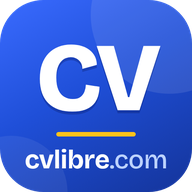
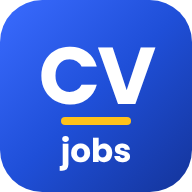
Appli Jobs CVLibre : icône CV jobs, nom Jobs CVLibre, liens hors offres ouverts dans le navigateur
Claude-Session: https://claude.ai/code/session_01C97iXcqBvxtjgHv4LhD2QB

diff --git a/assets/app.js b/assets/app.js
@@ -1,15 +1,15 @@
-/* 14 nov 2026 (Jeremy): "CVLibre Emploi" app, only for the job pages.
+/* 14 nov 2026 (Jeremy): "Jobs CVLibre" app, only for the job pages.
    Outside the app: a discreet install card. No notifications for now (Notifpush sends ads, not jobs). */
 (function () {
   var lg = (document.documentElement.lang || "fr").slice(0, 2);
   var T = {
-    fr: { t: "<strong>Appli CVLibre Emploi</strong> : les offres en un clic depuis votre écran d'accueil.", b: "Installer", x: "Fermer",
+    fr: { t: "<strong>Appli Jobs CVLibre</strong> : les offres en un clic depuis votre écran d'accueil.", b: "Installer", x: "Fermer",
       ios: "Sur iPhone : appuyez sur <strong>Partager</strong> <span aria-hidden=\"true\">⬆</span> en bas de l'écran, puis <strong>Sur l'écran d'accueil</strong>.",
       and: "Ouvrez le menu <strong>⋮</strong> du navigateur, puis <strong>Ajouter à l'écran d'accueil</strong> (ou <strong>Installer l'appli</strong>)." },
-    en: { t: "<strong>CVLibre Jobs app</strong>: jobs one tap from your home screen.", b: "Install", x: "Close",
+    en: { t: "<strong>Jobs CVLibre app</strong>: jobs one tap from your home screen.", b: "Install", x: "Close",
       ios: "On iPhone: tap <strong>Share</strong> <span aria-hidden=\"true\">⬆</span> at the bottom of the screen, then <strong>Add to Home Screen</strong>.",
       and: "Open the browser menu <strong>⋮</strong>, then <strong>Add to Home screen</strong> (or <strong>Install app</strong>)." },
-    de: { t: "<strong>App CVLibre Jobs</strong>: Stellenangebote mit einem Tippen vom Startbildschirm.", b: "Installieren", x: "Schließen",
+    de: { t: "<strong>App Jobs CVLibre</strong>: Stellenangebote mit einem Tippen vom Startbildschirm.", b: "Installieren", x: "Schließen",
       ios: "Auf dem iPhone: Tippen Sie unten auf <strong>Teilen</strong> <span aria-hidden=\"true\">⬆</span>, dann auf <strong>Zum Home-Bildschirm</strong>.",
       and: "Öffnen Sie das Browsermenü <strong>⋮</strong>, dann <strong>Zum Startbildschirm hinzufügen</strong> (oder <strong>App installieren</strong>)." }
   }[lg] || null;
@@ -28,7 +28,19 @@
     ".cvapp-h{margin:-8px 0 16px;padding:10px 14px;border-radius:10px;background:#fff8e6;font-size:.92rem}";
   document.head.appendChild(st);
 
-  if (standalone) { track("app_open"); return; }
+  if (standalone) {
+    track("app_open");
+    // only the job pages live in the app: every other link opens in the normal browser
+    var scope = location.pathname.replace(/[^/]*$/, "");
+    var fix = function (a) {
+      try {
+        var u = new URL(a.getAttribute("href"), location.href);
+        if (u.origin !== location.origin || u.pathname.indexOf(scope) !== 0) { a.target = "_blank"; a.rel = "noopener"; }
+      } catch (e) {}
+    };
+    document.addEventListener("click", function (e) { var a = e.target.closest && e.target.closest("a[href]"); if (a) fix(a); }, true);
+    return;
+  }
 
   if (!mobile) return;
   try { if (localStorage.getItem("cvl_app_x")) return; } catch (e) {}

diff --git a/au/jobs/index.html b/au/jobs/index.html
@@ -30,7 +30,7 @@
 <link rel="stylesheet" href="/assets/style.css?v=20261113z">
 <link rel="stylesheet" href="/assets/cv.css?v=20261113b">
 <link rel="icon" href="/assets/favicon.svg" type="image/svg+xml">
-<link rel="apple-touch-icon" href="/assets/apple-touch-icon.png">
+<link rel="apple-touch-icon" href="/assets/app-touch-180.png">
 <link rel="preload" href="/assets/fonts/source-sans-3-latin-wght-normal.woff2" as="font" type="font/woff2" crossorigin>
 <link rel="stylesheet" href="/assets/letter.css?v=20261113b">
 <link rel="stylesheet" href="/assets/offres.css?v=20261113c">
@@ -38,7 +38,7 @@
 <link rel="manifest" href="/au/jobs/manifest.webmanifest">
 <meta name="mobile-web-app-capable" content="yes">
 <meta name="apple-mobile-web-app-capable" content="yes">
-<meta name="apple-mobile-web-app-title" content="CVLibre Jobs">
+<meta name="apple-mobile-web-app-title" content="Jobs CVLibre">
 <meta name="apple-mobile-web-app-status-bar-style" content="default">
 </head>
 <body>
@@ -106,7 +106,7 @@
 <script src="/assets/au/support.js?v=20261113z" defer></script>
 <script src="/assets/stats.js?v=20261113b" defer></script>
 <script src="/assets/au/offres.js?v=20261113z"></script>
-<script src="/assets/app.js?v=20261114b" defer></script>
+<script src="/assets/app.js?v=20261114c" defer></script>
 <script src="/assets/push.js?v=20261114c" defer></script>
 </body>
 </html>

diff --git a/ca/jobs/index.html b/ca/jobs/index.html
@@ -30,7 +30,7 @@
 <link rel="stylesheet" href="/assets/style.css?v=20261113z">
 <link rel="stylesheet" href="/assets/cv.css?v=20261113b">
 <link rel="icon" href="/assets/favicon.svg" type="image/svg+xml">
-<link rel="apple-touch-icon" href="/assets/apple-touch-icon.png">
+<link rel="apple-touch-icon" href="/assets/app-touch-180.png">
 <link rel="preload" href="/assets/fonts/source-sans-3-latin-wght-normal.woff2" as="font" type="font/woff2" crossorigin>
 <link rel="stylesheet" href="/assets/letter.css?v=20261113b">
 <link rel="stylesheet" href="/assets/offres.css?v=20261113c">
@@ -38,7 +38,7 @@
 <link rel="manifest" href="/ca/jobs/manifest.webmanifest">
 <meta name="mobile-web-app-capable" content="yes">
 <meta name="apple-mobile-web-app-capable" content="yes">
-<meta name="apple-mobile-web-app-title" content="CVLibre Jobs">
+<meta name="apple-mobile-web-app-title" content="Jobs CVLibre">
 <meta name="apple-mobile-web-app-status-bar-style" content="default">
 </head>
 <body>
@@ -106,7 +106,7 @@
 <script src="/assets/ca/support.js?v=20261113z" defer></script>
 <script src="/assets/stats.js?v=20261113b" defer></script>
 <script src="/assets/ca/offres.js?v=20261113z"></script>
-<script src="/assets/app.js?v=20261114b" defer></script>
+<script src="/assets/app.js?v=20261114c" defer></script>
 <script src="/assets/push.js?v=20261114c" defer></script>
 </body>
 </html>

diff --git a/de/jobs/index.html b/de/jobs/index.html
@@ -30,7 +30,7 @@
 <link rel="stylesheet" href="/assets/style.css?v=20261113z">
 <link rel="stylesheet" href="/assets/cv.css?v=20261113b">
 <link rel="icon" href="/assets/favicon.svg" type="image/svg+xml">
-<link rel="apple-touch-icon" href="/assets/apple-touch-icon.png">
+<link rel="apple-touch-icon" href="/assets/app-touch-180.png">
 <link rel="preload" href="/assets/fonts/source-sans-3-latin-wght-normal.woff2" as="font" type="font/woff2" crossorigin>
 <link rel="stylesheet" href="/assets/letter.css?v=20261113b">
 <link rel="stylesheet" href="/assets/offres.css?v=20261113c">
@@ -38,7 +38,7 @@
 <link rel="manifest" href="/de/jobs/manifest.webmanifest">
 <meta name="mobile-web-app-capable" content="yes">
 <meta name="apple-mobile-web-app-capable" content="yes">
-<meta name="apple-mobile-web-app-title" content="CVLibre Jobs">
+<meta name="apple-mobile-web-app-title" content="Jobs CVLibre">
 <meta name="apple-mobile-web-app-status-bar-style" content="default">
 </head>
 <body>
@@ -104,7 +104,7 @@
 <script src="/assets/de/support.js?v=20261113z" defer></script>
 <script src="/assets/stats.js?v=20261113b" defer></script>
 <script src="/assets/de/offres.js?v=20261113z"></script>
-<script src="/assets/app.js?v=20261114b" defer></script>
+<script src="/assets/app.js?v=20261114c" defer></script>
 <script src="/assets/push.js?v=20261114c" defer></script>
 </body>
 </html>

diff --git a/en/jobs/index.html b/en/jobs/index.html
@@ -30,7 +30,7 @@
 <link rel="stylesheet" href="/assets/style.css?v=20261113z">
 <link rel="stylesheet" href="/assets/cv.css?v=20261113b">
 <link rel="icon" href="/assets/favicon.svg" type="image/svg+xml">
-<link rel="apple-touch-icon" href="/assets/apple-touch-icon.png">
+<link rel="apple-touch-icon" href="/assets/app-touch-180.png">
 <link rel="preload" href="/assets/fonts/source-sans-3-latin-wght-normal.woff2" as="font" type="font/woff2" crossorigin>
 <link rel="stylesheet" href="/assets/letter.css?v=20261113b">
 <link rel="stylesheet" href="/assets/offres.css?v=20261113c">
@@ -38,7 +38,7 @@
 <link rel="manifest" href="/en/jobs/manifest.webmanifest">
 <meta name="mobile-web-app-capable" content="yes">
 <meta name="apple-mobile-web-app-capable" content="yes">
-<meta name="apple-mobile-web-app-title" content="CVLibre Jobs">
+<meta name="apple-mobile-web-app-title" content="Jobs CVLibre">
 <meta name="apple-mobile-web-app-status-bar-style" content="default">
 </head>
 <body>
@@ -105,7 +105,7 @@
 <script src="/assets/en/support.js?v=20261113z" defer></script>
 <script src="/assets/stats.js?v=20261113b" defer></script>
 <script src="/assets/en/offres.js?v=20261113z"></script>
-<script src="/assets/app.js?v=20261114b" defer></script>
+<script src="/assets/app.js?v=20261114c" defer></script>
 <script src="/assets/push.js?v=20261114c" defer></script>
 </body>
 </html>

diff --git a/nz/jobs/index.html b/nz/jobs/index.html
@@ -30,7 +30,7 @@
 <link rel="stylesheet" href="/assets/style.css?v=20261113z">
 <link rel="stylesheet" href="/assets/cv.css?v=20261113b">
 <link rel="icon" href="/assets/favicon.svg" type="image/svg+xml">
-<link rel="apple-touch-icon" href="/assets/apple-touch-icon.png">
+<link rel="apple-touch-icon" href="/assets/app-touch-180.png">
 <link rel="preload" href="/assets/fonts/source-sans-3-latin-wght-normal.woff2" as="font" type="font/woff2" crossorigin>
 <link rel="stylesheet" href="/assets/letter.css?v=20261113b">
 <link rel="stylesheet" href="/assets/offres.css?v=20261113c">
@@ -38,7 +38,7 @@
 <link rel="manifest" href="/nz/jobs/manifest.webmanifest">
 <meta name="mobile-web-app-capable" content="yes">
 <meta name="apple-mobile-web-app-capable" content="yes">
-<meta name="apple-mobile-web-app-title" content="CVLibre Jobs">
+<meta name="apple-mobile-web-app-title" content="Jobs CVLibre">
 <meta name="apple-mobile-web-app-status-bar-style" content="default">
 </head>
 <body>
@@ -106,7 +106,7 @@
 <script src="/assets/nz/support.js?v=20261113z" defer></script>
 <script src="/assets/stats.js?v=20261113b" defer></script>
 <script src="/assets/nz/offres.js?v=20261113z"></script>
-<script src="/assets/app.js?v=20261114b" defer></script>
+<script src="/assets/app.js?v=20261114c" defer></script>
 <script src="/assets/push.js?v=20261114c" defer></script>
 </body>
 </html>

diff --git a/us/jobs/index.html b/us/jobs/index.html
@@ -30,7 +30,7 @@
 <link rel="stylesheet" href="/assets/style.css?v=20261113z">
 <link rel="stylesheet" href="/assets/cv.css?v=20261113b">
 <link rel="icon" href="/assets/favicon.svg" type="image/svg+xml">
-<link rel="apple-touch-icon" href="/assets/apple-touch-icon.png">
+<link rel="apple-touch-icon" href="/assets/app-touch-180.png">
 <link rel="preload" href="/assets/fonts/source-sans-3-latin-wght-normal.woff2" as="font" type="font/woff2" crossorigin>
 <link rel="stylesheet" href="/assets/letter.css?v=20261113b">
 <link rel="stylesheet" href="/assets/offres.css?v=20261113c">
@@ -38,7 +38,7 @@
 <link rel="manifest" href="/us/jobs/manifest.webmanifest">
 <meta name="mobile-web-app-capable" content="yes">
 <meta name="apple-mobile-web-app-capable" content="yes">
-<meta name="apple-mobile-web-app-title" content="CVLibre Jobs">
+<meta name="apple-mobile-web-app-title" content="Jobs CVLibre">
 <meta name="apple-mobile-web-app-status-bar-style" content="default">
 </head>
 <body>
@@ -106,7 +106,7 @@
 <script src="/assets/us/support.js?v=20261113z" defer></script>
 <script src="/assets/stats.js?v=20261113b" defer></script>
 <script src="/assets/us/offres.js?v=20261113z"></script>
-<script src="/assets/app.js?v=20261114b" defer></script>
+<script src="/assets/app.js?v=20261114c" defer></script>
 <script src="/assets/push.js?v=20261114c" defer></script>
 </body>
 </html>

diff --git a/offres-emploi/index.html b/offres-emploi/index.html
@@ -30,12 +30,12 @@
 <link rel="stylesheet" href="/assets/letter.css?v=20261113b">
 <link rel="stylesheet" href="/assets/offres.css?v=20261113c">
 <link rel="icon" href="/assets/favicon.svg" type="image/svg+xml">
-<link rel="apple-touch-icon" href="/assets/apple-touch-icon.png">
+<link rel="apple-touch-icon" href="/assets/app-touch-180.png">
 <link rel="preload" href="/assets/fonts/source-sans-3-latin-wght-normal.woff2" as="font" type="font/woff2" crossorigin>
 <link rel="manifest" href="/offres-emploi/manifest.webmanifest">
 <meta name="mobile-web-app-capable" content="yes">
 <meta name="apple-mobile-web-app-capable" content="yes">
-<meta name="apple-mobile-web-app-title" content="CVLibre Emploi">
+<meta name="apple-mobile-web-app-title" content="Jobs CVLibre">
 <meta name="apple-mobile-web-app-status-bar-style" content="default">
 </head>
 <body>
@@ -132,7 +132,7 @@
 <script src="/assets/pass.js?v=20261113q"></script>
 <script src="/assets/auth.js?v=20261113h"></script>
 <script src="/assets/offres.js?v=20261113s" defer></script>
-<script src="/assets/app.js?v=20261114b" defer></script>
+<script src="/assets/app.js?v=20261114c" defer></script>
 <script src="/assets/push.js?v=20261114c" defer></script>
 </body>
 </html>

diff --git a/tools/i18n/pwa.py b/tools/i18n/pwa.py
@@ -1,20 +1,23 @@
 # 14 nov 2026 (Jeremy): "CVLibre Emploi / Jobs" installable app, only on the job pages; re-applied after each build
 import os
 ROOT = os.path.abspath(os.path.join(os.path.dirname(__file__), "..", ".."))
-V = "20261114b"
+V = "20261114c"
 DIRS = ["offres-emploi", "en/jobs", "us/jobs", "ca/jobs", "au/jobs", "nz/jobs", "de/jobs"]
 n = 0
 for d in DIRS:
     p = os.path.join(ROOT, d, "index.html")
     s = open(p, encoding="utf-8").read()
     if 'rel="manifest"' not in s:
-        title = "CVLibre Emploi" if d == "offres-emploi" else "CVLibre Jobs"
+        title = "Jobs CVLibre"
         head = ('<link rel="manifest" href="/%s/manifest.webmanifest">\n'
                 '<meta name="mobile-web-app-capable" content="yes">\n'
                 '<meta name="apple-mobile-web-app-capable" content="yes">\n'
                 '<meta name="apple-mobile-web-app-title" content="%s">\n'
                 '<meta name="apple-mobile-web-app-status-bar-style" content="default">\n') % (d, title)
         s = s.replace("</head>", head + "</head>", 1)
+    # the installed app uses the "CV jobs" icon on these pages
+    s = s.replace('<link rel="apple-touch-icon" href="/assets/apple-touch-icon.png">', '<link rel="apple-touch-icon" href="/assets/app-touch-180.png">')
+    s = s.replace('content="CVLibre Emploi"', 'content="Jobs CVLibre"').replace('<meta name="apple-mobile-web-app-title" content="CVLibre Jobs">', '<meta name="apple-mobile-web-app-title" content="Jobs CVLibre">')
     if "/assets/app.js" not in s:
         i = s.rfind("</body>")
         s = s[:i] + '<script src="/assets/app.js?v=%s" defer></script>\n' % V + s[i:]
